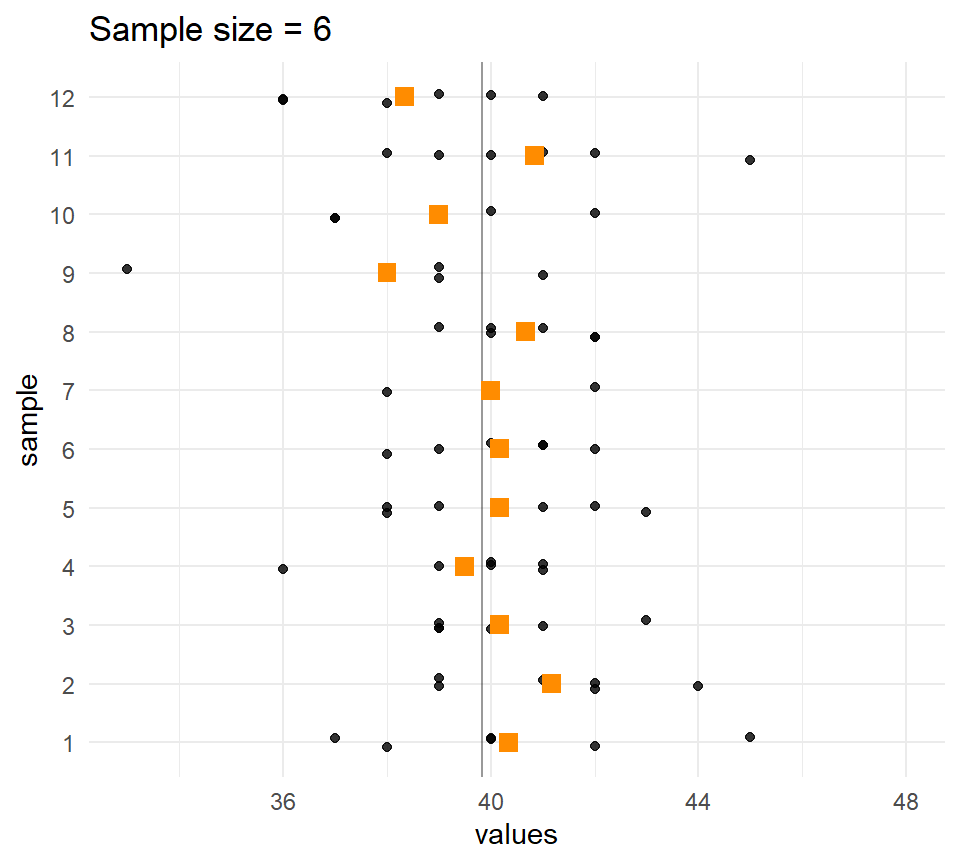
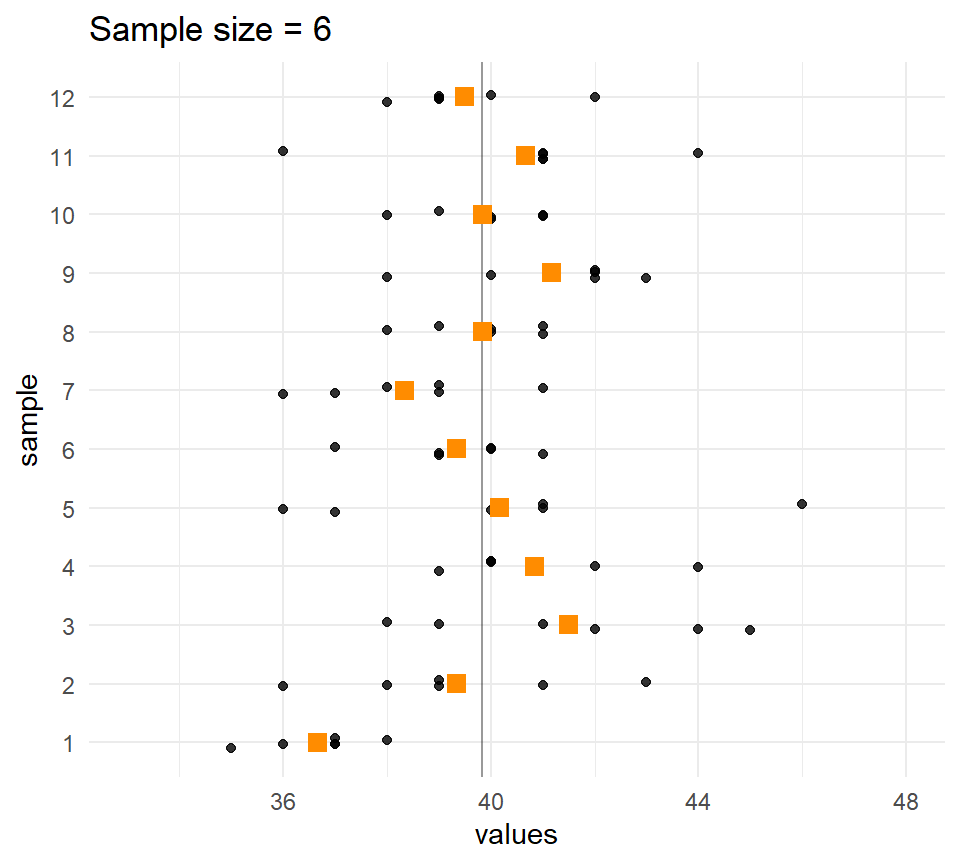
update ch04 lecture again

diff --git a/docs/slides/Chapter04.html b/docs/slides/Chapter04.html
@@ -489,7 +489,7 @@
 <div class="sourceCode cell-code" id="cb3"><pre class="sourceCode numberSource r number-lines code-with-copy"><code class="sourceCode r"><span id="cb3-1"><a href="#cb3-1"></a><span class="co"># A single sample</span></span>
 <span id="cb3-2"><a href="#cb3-2"></a><span class="fu">sample</span>(qd_long, <span class="at">size =</span> <span class="dv">6</span>)</span></code><button title="Copy to Clipboard" class="code-copy-button"><i class="bi"></i></button></pre></div>
 <div class="cell-output cell-output-stdout">
-<pre><code>[1] 42 40 37 40 39 42</code></pre>
+<pre><code>[1] 39 38 39 40 38 42</code></pre>
 </div>
 </div>
 </div>
@@ -499,25 +499,25 @@
 <span id="cb5-2"><a href="#cb5-2"></a><span class="fu">map</span>(<span class="dv">1</span><span class="sc">:</span><span class="dv">7</span>, <span class="sc">~</span> <span class="fu">sample</span>(qd_long, <span class="at">size =</span> <span class="dv">6</span>))</span></code><button title="Copy to Clipboard" class="code-copy-button"><i class="bi"></i></button></pre></div>
 <div class="cell-output cell-output-stdout">
 <pre><code>[[1]]
-[1] 40 39 39 42 39 38
+[1] 36 40 38 40 41 42
 
 [[2]]
-[1] 39 39 41 41 38 41
+[1] 39 38 43 34 40 40
 
 [[3]]
-[1] 40 40 39 38 43 42
+[1] 42 40 38 42 40 38
 
 [[4]]
-[1] 38 40 44 43 40 38
+[1] 37 36 37 43 40 42
 
 [[5]]
-[1] 43 40 40 42 39 39
+[1] 40 39 41 38 38 40
 
 [[6]]
-[1] 39 43 42 40 35 38
+[1] 39 38 41 35 45 43
 
 [[7]]
-[1] 40 40 38 42 36 41</code></pre>
+[1] 38 39 39 37 41 41</code></pre>
 </div>
 </div>
 </div>
@@ -543,21 +543,21 @@
 <pre><code># A tibble: 15 × 2
    sample values
    &lt;fct&gt;   &lt;int&gt;
- 1 1          36
+ 1 1          42
  2 1          38
- 3 1          43
- 4 1          41
+ 3 1          39
+ 4 1          39
  5 1          41
- 6 1          41
- 7 2          43
- 8 2          40
- 9 2          38
-10 2          40
-11 2          41
-12 2          39
-13 3          38
-14 3          45
-15 3          37</code></pre>
+ 6 1          42
+ 7 2          38
+ 8 2          39
+ 9 2          40
+10 2          42
+11 2          38
+12 2          42
+13 3          37
+14 3          39
+15 3          39</code></pre>
 </div>
 </div>
 </div>
@@ -588,16 +588,16 @@
 <pre><code># A tibble: 10 × 2
    sample  mean
    &lt;fct&gt;  &lt;dbl&gt;
- 1 1       40.5
- 2 2       39.8
- 3 3       41.3
- 4 4       41.7
- 5 5       40.7
- 6 6       41  
- 7 7       40.2
- 8 8       39.2
- 9 9       40  
-10 10      38.5</code></pre>
+ 1 1       39.2
+ 2 2       39.7
+ 3 3       38.7
+ 4 4       41.3
+ 5 5       40.3
+ 6 6       38.5
+ 7 7       39.3
+ 8 8       40.7
+ 9 9       40.7
+10 10      39.5</code></pre>
 </div>
 </div>
 </div>
@@ -851,7 +851,9 @@ T = \frac{\bar X - \mu} {s/\sqrt{n}}
 <li>the 0.025th quantile of the <span class="math inline">\(t\)</span> distribution with degrees of freedom <span class="math inline">\(df=n-1\)</span>.</li>
 </ul>
 </div>
-<p>With a sample of size <span class="math inline">\(n\)</span> = 6 from the Quetelet dataset.</p>
+<div class="fragment">
+<div class="absolute" style="top: 45%; left: 0px; ">
+<p>A sample of size <span class="math inline">\(n\)</span> = 6 from Quetelet data</p>
 <div class="cell" data-layout-align="center">
 <div class="sourceCode cell-code" id="cb18"><pre class="sourceCode numberSource r number-lines code-with-copy"><code class="sourceCode r"><span id="cb18-1"><a href="#cb18-1"></a>n1 <span class="ot">&lt;-</span> <span class="dv">6</span>; df1 <span class="ot">&lt;-</span> n1<span class="dv">-1</span></span>
 <span id="cb18-2"><a href="#cb18-2"></a>( dq1 <span class="ot">&lt;-</span> <span class="fu">sample</span>(qd_long, <span class="at">size =</span> n1) )</span></code><button title="Copy to Clipboard" class="code-copy-button"><i class="bi"></i></button></pre></div>
@@ -875,38 +877,27 @@ T = \frac{\bar X - \mu} {s/\sqrt{n}}
 <pre><code>[1] 36.69118 40.97548</code></pre>
 </div>
 </div>
-</section>
-<section id="confidence-intervals-for-a-sample-mean-1" class="slide level2">
-<h2>Confidence intervals for a sample mean</h2>
-<p>We can calculate a 95% confidence interval for a sample mean with the following information:</p>
-<div style="font-size: 75%;">
-<ul>
-<li>sample mean <span class="math inline">\(\bar x\)</span>,</li>
-<li>sample standard deviation <span class="math inline">\(s\)</span>,</li>
-<li>the sample size <span class="math inline">\(n\)</span>, and</li>
-<li>the 0.025th quantile of the <span class="math inline">\(t\)</span> distribution with degrees of freedom <span class="math inline">\(df=n-1\)</span>.</li>
-</ul>
 </div>
+</div>
+<div class="fragment">
+<div class="absolute" style="top: 45%; right: 0px; ">
 <p>Or, more simply…</p>
 <div class="cell" data-layout-align="center">
-<div class="sourceCode cell-code" id="cb28"><pre class="sourceCode numberSource r number-lines code-with-copy"><code class="sourceCode r"><span id="cb28-1"><a href="#cb28-1"></a>n1 <span class="ot">&lt;-</span> <span class="dv">6</span>; df1 <span class="ot">&lt;-</span> n1<span class="dv">-1</span></span>
-<span id="cb28-2"><a href="#cb28-2"></a>( dq1 <span class="ot">&lt;-</span> <span class="fu">sample</span>(qd_long, <span class="at">size =</span> n1) )</span></code><button title="Copy to Clipboard" class="code-copy-button"><i class="bi"></i></button></pre></div>
-<div class="cell-output cell-output-stdout">
-<pre><code>[1] 43 43 41 40 38 40</code></pre>
-</div>
-<div class="sourceCode cell-code" id="cb30"><pre class="sourceCode numberSource r number-lines code-with-copy"><code class="sourceCode r"><span id="cb30-1"><a href="#cb30-1"></a><span class="fu">t.test</span>(dq1)</span></code><button title="Copy to Clipboard" class="code-copy-button"><i class="bi"></i></button></pre></div>
+<div class="sourceCode cell-code" id="cb28"><pre class="sourceCode numberSource r number-lines code-with-copy"><code class="sourceCode r"><span id="cb28-1"><a href="#cb28-1"></a><span class="fu">t.test</span>(dq1)</span></code><button title="Copy to Clipboard" class="code-copy-button"><i class="bi"></i></button></pre></div>
 <div class="cell-output cell-output-stdout">
 <pre><code>
     One Sample t-test
 
 data:  dq1
-t = 51.536, df = 5, p-value = 5.2e-08
+t = 46.6, df = 5, p-value = 8.595e-08
 alternative hypothesis: true mean is not equal to 0
 95 percent confidence interval:
- 38.79660 42.87007
+ 36.69118 40.97548
 sample estimates:
 mean of x 
- 40.83333 </code></pre>
+ 38.83333 </code></pre>
+</div>
+</div>
 </div>
 </div>
 </section>
@@ -1061,7 +1052,7 @@ alternative hypothesis: two-sided</code></pre>
 <p>A hypothesis test has a certain <strong>power</strong> (probability) to reject the null hypothesis when it is false.</p>
 <p>The power of the t test can be evaluated using R for given effect size <span class="math inline">\(\delta\)</span></p>
 <div class="cell" data-layout-align="center">
-<div class="sourceCode cell-code" id="cb34"><pre class="sourceCode numberSource r number-lines code-with-copy"><code class="sourceCode r"><span id="cb34-1"><a href="#cb34-1"></a><span class="fu">power.t.test</span>(<span class="at">n =</span> <span class="dv">30</span>, <span class="at">delta =</span> <span class="dv">1</span>, <span class="at">sd =</span> <span class="dv">1</span>, <span class="at">sig.level =</span> <span class="fl">0.05</span>)</span></code><button title="Copy to Clipboard" class="code-copy-button"><i class="bi"></i></button></pre></div>
+<div class="sourceCode cell-code" id="cb32"><pre class="sourceCode numberSource r number-lines code-with-copy"><code class="sourceCode r"><span id="cb32-1"><a href="#cb32-1"></a><span class="fu">power.t.test</span>(<span class="at">n =</span> <span class="dv">30</span>, <span class="at">delta =</span> <span class="dv">1</span>, <span class="at">sd =</span> <span class="dv">1</span>, <span class="at">sig.level =</span> <span class="fl">0.05</span>)</span></code><button title="Copy to Clipboard" class="code-copy-button"><i class="bi"></i></button></pre></div>
 <div class="cell-output cell-output-stdout">
 <pre><code>
      Two-sample t test power calculation 
@@ -1075,7 +1066,7 @@ alternative hypothesis: two-sided</code></pre>
 
 NOTE: n is number in *each* group</code></pre>
 </div>
-<div class="sourceCode cell-code" id="cb36"><pre class="sourceCode numberSource r number-lines code-with-copy"><code class="sourceCode r"><span id="cb36-1"><a href="#cb36-1"></a><span class="fu">power.t.test</span>(<span class="at">n =</span> <span class="dv">50</span>, <span class="at">delta =</span> <span class="dv">1</span>, <span class="at">sd =</span> <span class="dv">1</span>, <span class="at">sig.level =</span> <span class="fl">0.05</span>)</span></code><button title="Copy to Clipboard" class="code-copy-button"><i class="bi"></i></button></pre></div>
+<div class="sourceCode cell-code" id="cb34"><pre class="sourceCode numberSource r number-lines code-with-copy"><code class="sourceCode r"><span id="cb34-1"><a href="#cb34-1"></a><span class="fu">power.t.test</span>(<span class="at">n =</span> <span class="dv">50</span>, <span class="at">delta =</span> <span class="dv">1</span>, <span class="at">sd =</span> <span class="dv">1</span>, <span class="at">sig.level =</span> <span class="fl">0.05</span>)</span></code><button title="Copy to Clipboard" class="code-copy-button"><i class="bi"></i></button></pre></div>
 <div class="cell-output cell-output-stdout">
 <pre><code>
      Two-sample t test power calculation 
@@ -1165,7 +1156,7 @@ mean difference
 <li>Can we treat the survey as unbiased?</li>
 </ul>
 <div class="cell" data-layout-align="center">
-<div class="sourceCode cell-code" id="cb41"><pre class="sourceCode numberSource r number-lines code-with-copy"><code class="sourceCode r"><span id="cb41-1"><a href="#cb41-1"></a><span class="fu">prop.test</span>(<span class="dv">450</span>, <span class="dv">1000</span>)</span></code><button title="Copy to Clipboard" class="code-copy-button"><i class="bi"></i></button></pre></div>
+<div class="sourceCode cell-code" id="cb39"><pre class="sourceCode numberSource r number-lines code-with-copy"><code class="sourceCode r"><span id="cb39-1"><a href="#cb39-1"></a><span class="fu">prop.test</span>(<span class="dv">450</span>, <span class="dv">1000</span>)</span></code><button title="Copy to Clipboard" class="code-copy-button"><i class="bi"></i></button></pre></div>
 <div class="cell-output cell-output-stdout">
 <pre><code>
     1-sample proportions test with continuity correction
@@ -1201,9 +1192,9 @@ probability of success
 <h2>Comparing several proportions</h2>
 <p>Fleiss (1981) <em>Statistical methods for rates and proportions</em> data on smokers in four group of patients</p>
 <div class="cell" data-layout-align="center">
-<div class="sourceCode cell-code" id="cb44"><pre class="sourceCode numberSource r number-lines code-with-copy"><code class="sourceCode r"><span id="cb44-1"><a href="#cb44-1"></a>smokers  <span class="ot">&lt;-</span> <span class="fu">c</span>( <span class="dv">83</span>, <span class="dv">90</span>, <span class="dv">129</span>, <span class="dv">70</span> )</span>
-<span id="cb44-2"><a href="#cb44-2"></a>patients <span class="ot">&lt;-</span> <span class="fu">c</span>( <span class="dv">86</span>, <span class="dv">93</span>, <span class="dv">136</span>, <span class="dv">82</span> )</span>
-<span id="cb44-3"><a href="#cb44-3"></a><span class="fu">prop.test</span>(smokers, patients)</span></code><button title="Copy to Clipboard" class="code-copy-button"><i class="bi"></i></button></pre></div>
+<div class="sourceCode cell-code" id="cb42"><pre class="sourceCode numberSource r number-lines code-with-copy"><code class="sourceCode r"><span id="cb42-1"><a href="#cb42-1"></a>smokers  <span class="ot">&lt;-</span> <span class="fu">c</span>( <span class="dv">83</span>, <span class="dv">90</span>, <span class="dv">129</span>, <span class="dv">70</span> )</span>
+<span id="cb42-2"><a href="#cb42-2"></a>patients <span class="ot">&lt;-</span> <span class="fu">c</span>( <span class="dv">86</span>, <span class="dv">93</span>, <span class="dv">136</span>, <span class="dv">82</span> )</span>
+<span id="cb42-3"><a href="#cb42-3"></a><span class="fu">prop.test</span>(smokers, patients)</span></code><button title="Copy to Clipboard" class="code-copy-button"><i class="bi"></i></button></pre></div>
 <div class="cell-output cell-output-stdout">
 <pre><code>
     4-sample test for equality of proportions without continuity correction
@@ -1508,7 +1499,7 @@ mean in group 1 mean in group 2
 <section id="another-form-of-test" class="slide level2">
 <h2>Another form of test</h2>
 <div class="cell" data-layout-align="center">
-<div class="sourceCode cell-code" id="cb54"><pre class="sourceCode numberSource r number-lines code-with-copy"><code class="sourceCode r"><span id="cb54-1"><a href="#cb54-1"></a><span class="fu">kruskal.test</span>(rangitikei<span class="sc">$</span>people<span class="sc">~</span>rangitikei<span class="sc">$</span>time)</span></code><button title="Copy to Clipboard" class="code-copy-button"><i class="bi"></i></button></pre></div>
+<div class="sourceCode cell-code" id="cb52"><pre class="sourceCode numberSource r number-lines code-with-copy"><code class="sourceCode r"><span id="cb52-1"><a href="#cb52-1"></a><span class="fu">kruskal.test</span>(rangitikei<span class="sc">$</span>people<span class="sc">~</span>rangitikei<span class="sc">$</span>time)</span></code><button title="Copy to Clipboard" class="code-copy-button"><i class="bi"></i></button></pre></div>
 <div class="cell-output cell-output-stdout">
 <pre><code>
     Kruskal-Wallis rank sum test
@@ -1518,7 +1509,7 @@ Kruskal-Wallis chi-squared = 7.2171, df = 1, p-value = 0.007221</code></pre>
 </div>
 </div>
 <div class="cell" data-layout-align="center">
-<div class="sourceCode cell-code" id="cb56"><pre class="sourceCode numberSource r number-lines code-with-copy"><code class="sourceCode r"><span id="cb56-1"><a href="#cb56-1"></a><span class="fu">wilcox.test</span>(rangitikei<span class="sc">$</span>people<span class="sc">~</span>rangitikei<span class="sc">$</span>time)</span></code><button title="Copy to Clipboard" class="code-copy-button"><i class="bi"></i></button></pre></div>
+<div class="sourceCode cell-code" id="cb54"><pre class="sourceCode numberSource r number-lines code-with-copy"><code class="sourceCode r"><span id="cb54-1"><a href="#cb54-1"></a><span class="fu">wilcox.test</span>(rangitikei<span class="sc">$</span>people<span class="sc">~</span>rangitikei<span class="sc">$</span>time)</span></code><button title="Copy to Clipboard" class="code-copy-button"><i class="bi"></i></button></pre></div>
 <div class="cell-output cell-output-stdout">
 <pre><code>
     Wilcoxon rank sum test with continuity correction
@@ -1534,8 +1525,8 @@ alternative hypothesis: true location shift is not equal to 0</code></pre>
 <p>A permutation (or randomisation) test is based on the idea of randomly permuting the observed data and then answering whether a hypothesis is negated or not.</p>
 <p>One sample hypothesis test example follows:</p>
 <div class="cell" data-layout-align="center">
-<div class="sourceCode cell-code" id="cb58"><pre class="sourceCode numberSource r number-lines code-with-copy"><code class="sourceCode r"><span id="cb58-1"><a href="#cb58-1"></a><span class="fu">library</span>(exactRankTests)</span>
-<span id="cb58-2"><a href="#cb58-2"></a><span class="fu">perm.test</span>(tv<span class="sc">$</span>TELETIME, <span class="at">null.value=</span><span class="dv">1500</span>)</span></code><button title="Copy to Clipboard" class="code-copy-button"><i class="bi"></i></button></pre></div>
+<div class="sourceCode cell-code" id="cb56"><pre class="sourceCode numberSource r number-lines code-with-copy"><code class="sourceCode r"><span id="cb56-1"><a href="#cb56-1"></a><span class="fu">library</span>(exactRankTests)</span>
+<span id="cb56-2"><a href="#cb56-2"></a><span class="fu">perm.test</span>(tv<span class="sc">$</span>TELETIME, <span class="at">null.value=</span><span class="dv">1500</span>)</span></code><button title="Copy to Clipboard" class="code-copy-button"><i class="bi"></i></button></pre></div>
 <div class="cell-output cell-output-stdout">
 <pre><code>
     1-sample Permutation Test
@@ -1550,7 +1541,7 @@ alternative hypothesis: true mu is not equal to 0</code></pre>
 <section id="two-group-comparison" class="slide level2">
 <h2>Two group comparison</h2>
 <div class="cell" data-layout-align="center">
-<div class="sourceCode cell-code" id="cb60"><pre class="sourceCode numberSource r number-lines code-with-copy"><code class="sourceCode r"><span id="cb60-1"><a href="#cb60-1"></a><span class="fu">perm.test</span>(TELETIME<span class="sc">~</span>SEX, <span class="at">distribution =</span><span class="st">'exact'</span>, <span class="at">data=</span>tv)</span></code><button title="Copy to Clipboard" class="code-copy-button"><i class="bi"></i></button></pre></div>
+<div class="sourceCode cell-code" id="cb58"><pre class="sourceCode numberSource r number-lines code-with-copy"><code class="sourceCode r"><span id="cb58-1"><a href="#cb58-1"></a><span class="fu">perm.test</span>(TELETIME<span class="sc">~</span>SEX, <span class="at">distribution =</span><span class="st">'exact'</span>, <span class="at">data=</span>tv)</span></code><button title="Copy to Clipboard" class="code-copy-button"><i class="bi"></i></button></pre></div>
 <div class="cell-output cell-output-stdout">
 <pre><code>
     2-sample Permutation Test
@@ -1562,8 +1553,8 @@ alternative hypothesis: true mu is not equal to 0</code></pre>
 </div>
 <p>Also using a linear model fit (cover later)</p>
 <div class="cell" data-layout-align="center">
-<div class="sourceCode cell-code" id="cb62"><pre class="sourceCode numberSource r number-lines code-with-copy"><code class="sourceCode r"><span id="cb62-1"><a href="#cb62-1"></a><span class="fu">library</span>(lmPerm)</span>
-<span id="cb62-2"><a href="#cb62-2"></a><span class="fu">summary</span>(<span class="fu">lmp</span>(TELETIME<span class="sc">~</span>SEX, <span class="at">data=</span>tv))</span></code><button title="Copy to Clipboard" class="code-copy-button"><i class="bi"></i></button></pre></div>
+<div class="sourceCode cell-code" id="cb60"><pre class="sourceCode numberSource r number-lines code-with-copy"><code class="sourceCode r"><span id="cb60-1"><a href="#cb60-1"></a><span class="fu">library</span>(lmPerm)</span>
+<span id="cb60-2"><a href="#cb60-2"></a><span class="fu">summary</span>(<span class="fu">lmp</span>(TELETIME<span class="sc">~</span>SEX, <span class="at">data=</span>tv))</span></code><button title="Copy to Clipboard" class="code-copy-button"><i class="bi"></i></button></pre></div>
 <div class="cell-output cell-output-stdout">
 <pre><code>[1] "Settings:  unique SS : numeric variables centered"</code></pre>
 </div>

diff --git a/docs/slides.html b/docs/slides.html
@@ -207,7 +207,7 @@ Chapter 3:<br>Probability Concepts &amp; Distributions
 </div>
 </a>
 </div>
-<div class="g-col-1" data-index="3" data-listing-file-modified-sort="1701772286300" data-listing-reading-time-sort="30">
+<div class="g-col-1" data-index="3" data-listing-file-modified-sort="1701773510038" data-listing-reading-time-sort="30">
 <a href="./slides/Chapter04.html" class="quarto-grid-link">
 <div class="quarto-grid-item card h-100 card-left">
 <p class="card-img-top">
